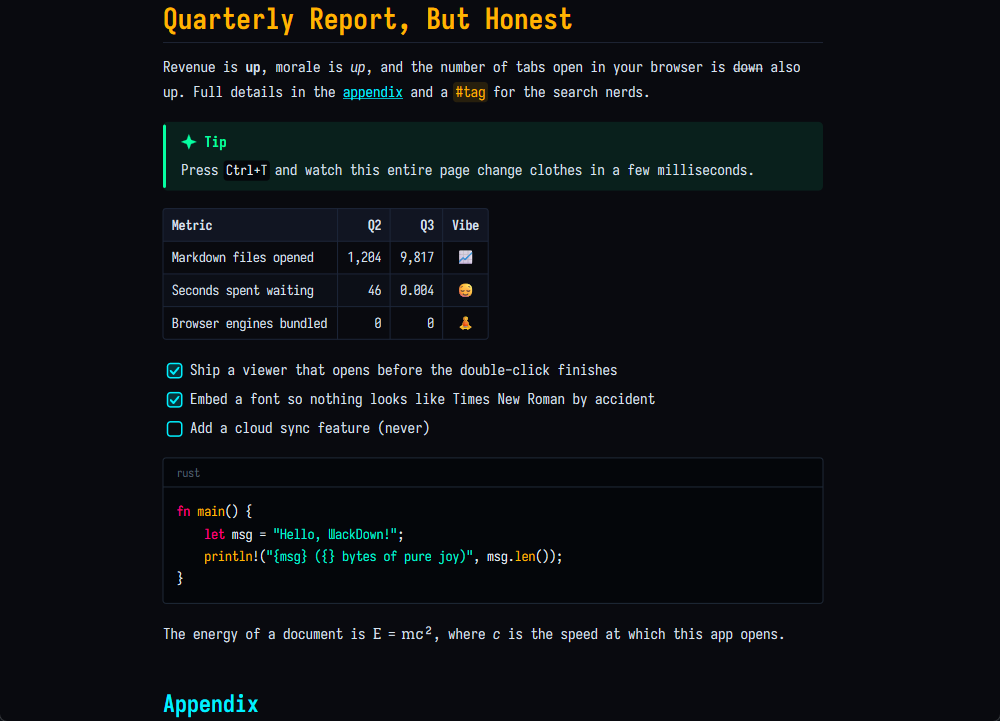
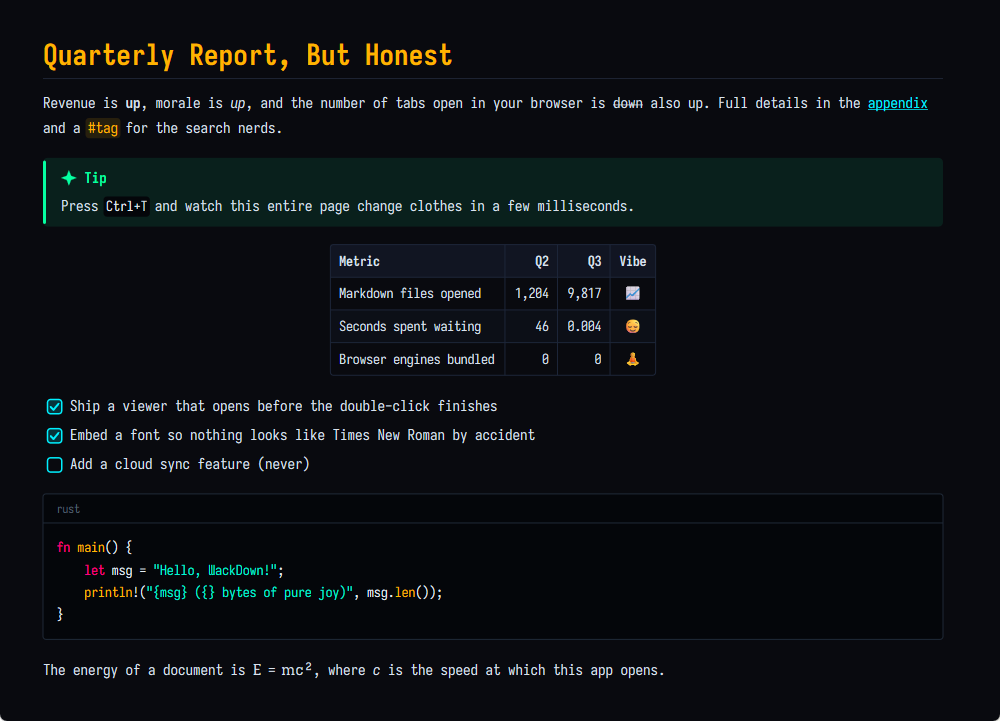
Zoom from 4% to 5000%, centered tables, wider text column
- Zoom range is now 0.04x-50x: zoom out to see a whole document as a strip,
  or in until one glyph fills the window. Steps grow past 2x / below 0.5x so
  the ends are reachable; page padding stops scaling at 2x; after an extreme
  zoom the view snaps onto text if it landed on empty space.
- A note greets you at either end of the range ("You have reached orbit." /
  "You have reached the letter."), with Ctrl+0 as the way back.
- Tables never exceed the text column and are centered within it.
- The default reading column is wider (measure 96-120 characters).
- Website: refreshed screenshots, zoom FAQ.

diff --git a/docs/index.html b/docs/index.html
@@ -244,7 +244,7 @@ footer p { margin: .4em 0; }
     <div class="keys">
       <div><span>Theme picker with live preview</span><span><kbd>Ctrl</kbd> <kbd>T</kbd></span></div>
       <div><span>Next / previous theme</span><span><kbd>T</kbd> / <kbd>Shift</kbd> <kbd>T</kbd></span></div>
-      <div><span>Zoom, centered on the cursor</span><span><kbd>Ctrl</kbd> + wheel</span></div>
+      <div><span>Zoom, 4% to 5000%, centered on the cursor</span><span><kbd>Ctrl</kbd> + wheel</span></div>
       <div><span>Reset zoom</span><span><kbd>Ctrl</kbd> <kbd>0</kbd></span></div>
       <div><span>Scroll a wide code block sideways</span><span><kbd>Shift</kbd> + wheel</span></div>
       <div><span>Page down / up</span><span><kbd>Space</kbd> / <kbd>Shift</kbd> <kbd>Space</kbd></span></div>
@@ -269,6 +269,7 @@ footer p { margin: .4em 0; }
     <details><summary>Why is the M upside down?</summary><p>Because it's Markdown, turned on its head. The letter is Ɯ, U+019C, "Latin capital letter turned M". It has been sitting in Unicode since 1993 waiting for a job. We gave it one.</p></details>
     <details><summary>Windows says it doesn't recognize this app.</summary><p>Correct, and Windows is being honest: the files aren't code-signed yet, because certificates cost either money or reputation and we're starting with neither. Click <em>More info → Run anyway</em>, or verify the SHA-256 checksum published with every release, like the responsible adult you are. Starring the repo helps us qualify for free signing. That's not a joke; it's literally how the program works.</p></details>
     <details><summary>Where does it keep my settings?</summary><p>One tiny JSON file in <code>%APPDATA%\WackDown</code> that remembers your theme, zoom and window size. Drop your own themes in a folder next to it. That's the whole configuration story.</p></details>
+    <details><summary>How far can I zoom?</summary><p>From 4%, where a document becomes a mood, to 5,000%, where a comma becomes a landscape. Most apps stop at 200% because nobody asked. We asked. There's something waiting for you at both ends.</p></details>
     <details><summary>Does it support images?</summary><p>It shows their alt text, which is more than most people write. Real image rendering is on the list. Mermaid diagrams are shown as code, which is technically rendering.</p></details>
     <details><summary>Who wrote this?</summary><p>An AI coding assistant (Claude Code), with a human holding the leash, reviewing the work and making the rude design decisions. The code is GPL-3.0, so you can read every line and judge for yourself.</p></details>
   </div>

diff --git a/src/window.rs b/src/window.rs
@@ -30,8 +30,9 @@ const TIMER_WATCH: usize = 2;
 const WM_MOUSEHWHEEL: u32 = 0x020E;
 /// Icon resource 1 in wackdown.rc (MAKEINTRESOURCE(1)).
 const APP_ICON: PCWSTR = PCWSTR(1 as *const u16);
-const MIN_ZOOM: f32 = 0.5;
-const MAX_ZOOM: f32 = 3.0;
+/// Zoom range: from "the whole document as a texture" to "a single letter as a landscape".
+const MIN_ZOOM: f32 = 0.04;
+const MAX_ZOOM: f32 = 50.0;
 /// Time per frame spent extending an incomplete layout.
 const LAYOUT_BUDGET: Duration = Duration::from_millis(6);
 /// Scrolling spring stiffness (rad/s).
@@ -91,6 +92,8 @@ struct App {
     zoom: Zoom,
     /// Block anchor to restore after a zoom relayout: (block, frac, view y).
     zoom_anchor: Option<((usize, f32), f32)>,
+    /// Fades in the message that greets anyone who reaches either end of the zoom range.
+    zoom_note: Fade,
     /// (anchor, focus), unordered.
     selection: Option<(TextPos, TextPos)>,
     selecting: bool,
@@ -205,6 +208,7 @@ pub fn run_window_loop(file: Option<PathBuf>, startup_timer: Instant) -> Result<
             scroll: Spring::new(0.0, SCROLL_OMEGA),
             zoom: Zoom { committed: saved_zoom, visual: saved_zoom, target: saved_zoom, anchor_y: 0.0, last_input: now },
             zoom_anchor: None,
+            zoom_note: Fade::default(),
             selection: None,
             selecting: false,
             press_link: None,
@@ -666,6 +670,15 @@ impl App {
             if let Some((anchor, view_y)) = self.zoom_anchor.take() {
                 let y = self.renderer.layout().map_or(0.0, |l| l.block_y(anchor)) - view_y;
                 self.scroll.set(y);
+                // Extreme zoom can land the view on empty space (padding, the gap between giant
+                // lines): make sure some text is on screen.
+                let max = self.max_scroll();
+                let s = self.scroll.value.clamp(0.0, max);
+                if let Some(top) = self.renderer.layout().and_then(|l| l.nearest_text_top(s)) {
+                    if top > s + vh * 0.8 || top + self.line_height() < s {
+                        self.scroll.set((top - vh * 0.1).clamp(0.0, max));
+                    }
+                }
             } else if let Some(anchor) = prior_anchor {
                 let y = self.renderer.layout().map_or(0.0, |l| l.block_y(anchor));
                 let delta = self.scroll.target - self.scroll.value;
@@ -738,6 +751,11 @@ impl App {
         self.code_fade.on = self.code_hover.is_some();
         self.code_fade.step(dt, 14.0);
 
+        // The note appears only once the zoom has settled at an end of the range.
+        let z = &self.zoom;
+        self.zoom_note.on = z.visual == z.target && z.committed == z.target && (z.target <= MIN_ZOOM || z.target >= MAX_ZOOM);
+        self.zoom_note.step(dt, 5.0);
+
         if self.flash.as_ref().is_some_and(|(_, t)| t.elapsed() > FLASH) {
             self.flash = None;
         }
@@ -757,6 +775,7 @@ impl App {
             || self.scrollbar_visible.moving()
             || self.scrollbar_visible.on
             || self.code_fade.moving()
+            || self.zoom_note.moving()
             || self.flash.is_some()
             || self.copied.is_some()
             || self.renderer.animating()
@@ -817,6 +836,7 @@ impl App {
             current_match: self.find.as_ref().filter(|f| !f.matches.is_empty()).map(|f| f.current),
             find: self.find.as_ref().map(|f| FindView { query: f.query.clone(), count: f.matches.len(), current: f.current }),
             status,
+            zoom_note: (self.zoom_note.value > 0.0).then_some((self.zoom.committed <= MIN_ZOOM, self.zoom_note.value)),
         };
         match self.renderer.render(&self.palette, &view) {
             Ok(true) => {
@@ -858,8 +878,16 @@ impl App {
     }
 
     /// Starts or retargets a zoom gesture centered on view y `anchor_y`.
+    /// One zoom step in or out. Steps grow at the extremes so reaching orbit doesn't take all day.
+    fn zoom_step(&mut self, notches: f32, anchor_y: f32) {
+        let z = self.zoom.target;
+        let factor: f32 = if !(0.5..=2.0).contains(&z) { 1.25 } else { 1.1 };
+        self.zoom_to(z * factor.powf(notches), anchor_y);
+    }
+
     fn zoom_to(&mut self, zoom: f32, anchor_y: f32) {
-        let z = (zoom * 100.0).round().clamp(MIN_ZOOM * 100.0, MAX_ZOOM * 100.0) / 100.0;
+        // Three decimals: fine enough for the small end, and keeps 1.0 exactly reachable.
+        let z = (zoom.clamp(MIN_ZOOM, MAX_ZOOM) * 1000.0).round() / 1000.0;
         if self.zoom.visual == self.zoom.committed {
             // New gesture: pin it to where it started.
             self.zoom.anchor_y = anchor_y;
@@ -1166,7 +1194,7 @@ impl App {
     /// Wheel input. `horizontal` for tilt wheels / two-finger sideways swipes.
     fn on_wheel(&mut self, delta: f32, horizontal: bool, ctrl: bool, shift: bool, x: f32, y: f32) {
         if ctrl && !horizontal {
-            self.zoom_to(self.zoom.target * 1.1f32.powf(delta), y);
+            self.zoom_step(delta, y);
             return;
         }
         // Sideways scrolling (or Shift+wheel) over a code block scrolls that block.
@@ -1249,8 +1277,8 @@ impl App {
                 self.selection = None;
                 self.invalidate();
             }
-            VK_OEM_PLUS | VK_ADD if ctrl => self.zoom_to(self.zoom.target * 1.1, vh / 2.0),
-            VK_OEM_MINUS | VK_SUBTRACT if ctrl => self.zoom_to(self.zoom.target / 1.1, vh / 2.0),
+            VK_OEM_PLUS | VK_ADD if ctrl => self.zoom_step(1.0, vh / 2.0),
+            VK_OEM_MINUS | VK_SUBTRACT if ctrl => self.zoom_step(-1.0, vh / 2.0),
             VK_0 | VK_NUMPAD0 if ctrl => self.zoom_to(1.0, vh / 2.0),
             VK_C if ctrl => self.copy_selection(),
             VK_A if ctrl => {

diff --git a/src/layout.rs b/src/layout.rs
@@ -284,6 +284,12 @@ impl Layout {
         self.items.partition_point(|it| it.y + it.h < y)
     }
 
+    /// Top of the nearest text at or below document y, or of the last text if y is past it.
+    pub fn nearest_text_top(&self, y: f32) -> Option<f32> {
+        let i = self.item_at_y(y).min(self.items.len().checked_sub(1)?);
+        Some(self.items[i].y)
+    }
+
     /// Whether a document point is over any text (for the I-beam cursor).
     pub fn over_text(&self, x: f32, y: f32) -> bool {
         let first = self.items.partition_point(|it| it.y + it.h < y);
@@ -410,9 +416,6 @@ pub(crate) struct LayoutBuilder {
     /// Breakout column for top-level code blocks and tables.
     wide_left: f32,
     wide_right: f32,
-    /// Wide tables may use the whole window width (minus padding), beyond `maxWidth`.
-    full_left: f32,
-    full_right: f32,
     table_body: IDWriteTextFormat,
     table_bold: IDWriteTextFormat,
     indent_step: f32,
@@ -514,8 +517,6 @@ impl LayoutBuilder {
             right: center + prose_w / 2.0,
             wide_left: center - wide_w / 2.0,
             wide_right: center + wide_w / 2.0,
-            full_left: pad_x,
-            full_right: pad_x + outer_w,
             table_body,
             table_bold,
             indent_step: fs * 1.8,
@@ -528,8 +529,9 @@ impl LayoutBuilder {
             headings,
             math,
             body_baseline,
-            padding_y: l.padding_y.max(0.0) * z,
-            y: l.padding_y.max(0.0) * z,
+            // Page padding scales with zoom only up to 2x: at 50x nobody wants 1,800 px of margin.
+            padding_y: l.padding_y.max(0.0) * z.min(2.0),
+            y: l.padding_y.max(0.0) * z.min(2.0),
             next: 0,
             laid_weight: 0.0,
             total_weight: doc.blocks.iter().map(weight).sum(),
@@ -717,7 +719,7 @@ impl LayoutBuilder {
                 let tx = x + icon + self.fs * 0.5;
                 self.inline(layout, brushes, &text, &self.body_bold.clone(), color, tx, (w - (tx - x)).max(self.fs), sep, DWRITE_TEXT_ALIGNMENT_LEADING)?
             }
-            BlockKind::Table { aligns, rows } => self.table(layout, brushes, aligns, rows, x, w, breakout, sep)?,
+            BlockKind::Table { aligns, rows } => self.table(layout, brushes, aligns, rows, x, w, sep)?,
         };
         self.y = top + h;
         layout.spans.push(Span { gtop, top, bottom: self.y });
@@ -1027,7 +1029,6 @@ impl LayoutBuilder {
         rows: &[Vec<InlineText>],
         x: f32,
         w: f32,
-        breakout: bool,
         sep: Sep,
     ) -> Result<f32> {
         let ncols = rows.iter().map(Vec::len).max().unwrap_or(0).max(aligns.len());
@@ -1038,13 +1039,11 @@ impl LayoutBuilder {
         let px = ts * 0.65;
         let py = ts * 0.4;
         let top = self.y;
-        let full = (self.full_left, self.full_right);
 
         // Per column: natural width (no wrapping) and min-content width (longest unbreakable
-        // word, so identifiers like `Api.Integrators` never split), measured against the widest
-        // area this table could get.
+        // word, so identifiers like `Api.Integrators` never split).
         let empty = InlineText::default();
-        let measure_w = if breakout { (full.1 - full.0).max(w) } else { w };
+        let measure_w = w;
         let mut natural = vec![ts; ncols];
         let mut min_content = vec![ts; ncols];
         for (ri, row) in rows.iter().enumerate() {
@@ -1057,13 +1056,11 @@ impl LayoutBuilder {
                 min_content[c] = min_content[c].max(min.ceil() + 1.0);
             }
         }
-        // Tables that fit stay left-aligned with the prose; wider ones widen around the center,
-        // up to the full window width.
-        let needed = natural.iter().sum::<f32>() + ncols as f32 * 2.0 * px;
-        let (x, w) = self.widen(x, w, needed, breakout, full);
+        // A table never exceeds the text column; narrower ones are centered in it.
         let avail = (w - ncols as f32 * 2.0 * px).max(ts * ncols as f32);
         let widths = column_widths(&natural, &min_content, avail);
         let table_w: f32 = widths.iter().map(|cw| cw + 2.0 * px).sum();
+        let x = x + ((w - table_w) / 2.0).max(0.0);
         let col_x: Vec<f32> = widths
             .iter()
             .scan(x, |acc, cw| {

diff --git a/src/renderer.rs b/src/renderer.rs
@@ -64,6 +64,8 @@ pub struct ViewState<'a> {
     pub find: Option<FindView>,
     /// Bottom-left status strip (the URL of a hovered link).
     pub status: Option<String>,
+    /// Message at an end of the zoom range: (zoomed all the way out?, alpha).
+    pub zoom_note: Option<(bool, f32)>,
 }
 
 /// The Ctrl+F bar.
@@ -277,6 +279,9 @@ impl Renderer {
             }
             if let Some(status) = &view.status {
                 draw_status(&target, &mut self.brushes, &self.dwrite, &ui, pal, status, vw, vh)?;
+            }
+            if let Some((far_out, alpha)) = view.zoom_note {
+                draw_zoom_note(&target, &mut self.brushes, &self.dwrite, &ui, pal, far_out, alpha, vw, vh)?;
             }
             self.last_draw_ms = started.elapsed().as_secs_f32() * 1000.0;
             let ended = dc.EndDraw(None, None);
@@ -720,6 +725,48 @@ fn draw_find(
         cl.SetParagraphAlignment(DWRITE_PARAGRAPH_ALIGNMENT_CENTER)?;
         cl.SetTextAlignment(DWRITE_TEXT_ALIGNMENT_TRAILING)?;
         dc.DrawTextLayout(pt(panel.right - 12.0 - counter_w, panel.top), &cl, &brush(ccolor)?, D2D1_DRAW_TEXT_OPTIONS_ENABLE_COLOR_FONT);
+    }
+    Ok(())
+}
+
+/// What you find at the ends of the zoom range. Drawn unscaled, centered near the bottom.
+#[allow(clippy::too_many_arguments)]
+fn draw_zoom_note(
+    dc: &ID2D1RenderTarget,
+    brushes: &mut HashMap<u32, ID2D1SolidColorBrush>,
+    dwrite: &IDWriteFactory,
+    ui: &UiFormats,
+    pal: &Palette,
+    far_out: bool,
+    alpha: f32,
+    vw: f32,
+    vh: f32,
+) -> Result<()> {
+    let (title, body) = if far_out {
+        ("You have reached orbit.", "This is your whole document. The words are still down there; they've just become a texture. Ctrl+0 brings you home.")
+    } else {
+        ("You have reached the letter.", "You are now closer to this glyph than its type designer ever was. It would like a moment alone. Ctrl+0 backs away politely.")
+    };
+    let mut brush = |c: Rgba| get_brush(brushes, dc, c);
+    let w = (vw - 80.0).clamp(200.0, 560.0);
+    unsafe {
+        let mk = |text: &str, format: &IDWriteTextFormat| -> Result<(IDWriteTextLayout, f32)> {
+            let wide: Vec<u16> = text.encode_utf16().collect();
+            let tl = dwrite.CreateTextLayout(&wide, format, w - 40.0, 200.0)?;
+            tl.SetTextAlignment(DWRITE_TEXT_ALIGNMENT_CENTER)?;
+            let mut m = DWRITE_TEXT_METRICS::default();
+            let _ = tl.GetMetrics(&mut m);
+            Ok((tl, m.height))
+        };
+        let (t, th) = mk(title, &ui.bold)?;
+        let (b, bh) = mk(body, &ui.small)?;
+        let h = th + bh + 28.0;
+        let panel = D2D_RECT_F { left: (vw - w) / 2.0, top: vh - h - 48.0, right: (vw + w) / 2.0, bottom: vh - 48.0 };
+        dc.FillRoundedRectangle(&rounded(panel, 10.0), &brush(Rgba { a: 0.94 * alpha, ..pal.code_background })?);
+        dc.DrawRoundedRectangle(&rounded(panel, 10.0), &brush(pal.accent.with_alpha(0.7 * alpha))?, 1.0, None);
+        let opts = D2D1_DRAW_TEXT_OPTIONS_ENABLE_COLOR_FONT;
+        dc.DrawTextLayout(pt(panel.left + 20.0, panel.top + 14.0), &t, &brush(pal.accent.with_alpha(alpha))?, opts);
+        dc.DrawTextLayout(pt(panel.left + 20.0, panel.top + 14.0 + th + 4.0), &b, &brush(pal.text.with_alpha(0.85 * alpha))?, opts);
     }
     Ok(())
 }

diff --git a/src/resilience_tests.rs b/src/resilience_tests.rs
@@ -316,6 +316,7 @@ impl Harness {
                 current_match: (!matches.is_empty()).then_some(i % matches.len().max(1)),
                 find: Some(FindView { query: if i == 0 { String::new() } else { "e".into() }, count: matches.len(), current: 0 }),
                 status: Some(format!("https://example.com/{}", "very-long-path/".repeat(i * 20))),
+                zoom_note: (i > 0).then_some((i == 1, 0.5 * i as f32)),
                 scrollbar: ScrollbarView { width: 4.0 + 4.0 * i as f32, alpha: 1.0, track: (i == 1) as u8 as f32 },
                 zoom: (i == 1).then_some((1.35, vw / 2.0, vh / 3.0)),
                 flash,
@@ -362,7 +363,9 @@ fn spec_corpus_lays_out_and_renders_in_every_theme() {
         let doc = parse_markdown(&md);
         let zoom = match i % 9 {
             0 => 0.5,
+            1 => 0.04,
             4 => 3.0,
+            7 => 50.0,
             _ => 1.0,
         };
         guarded(&label, &md, || {

diff --git a/README.md b/README.md
@@ -101,7 +101,7 @@ Not supported: Mermaid diagrams render as code blocks.
 |:--|:--|
 | Scroll | Mouse wheel, `↑` `↓`, `PgUp` `PgDn`, `Space` / `Shift+Space`, scrollbar drag |
 | Top / bottom | `Home` / `End` |
-| Zoom (fluid, centered on the cursor) | `Ctrl` + wheel, `Ctrl +` / `Ctrl -`, reset with `Ctrl 0` |
+| Zoom (fluid, centered on the cursor; 4% to 5000%) | `Ctrl` + wheel, `Ctrl +` / `Ctrl -`, reset with `Ctrl 0` |
 | Scroll a wide code block sideways | `Shift` + wheel, tilt wheel or two-finger swipe over the block |
 | Copy a code block | Hover it and click **Copy** |
 | Theme picker (live preview) | `Ctrl+T`, then `↑` `↓` to preview, `Enter` to keep, `Esc` to revert |
@@ -124,11 +124,12 @@ Only `name`, `colors.background` and `colors.text` are required — every other 
 layout value falls back to something derived from those. A custom theme with the same `id` as a
 built-in one replaces it.
 
-`layout.measure` sets the reading width in characters of the body font (prose reads best at roughly
-65–90); `layout.maxWidth` caps it and is how far code blocks may widen when their content needs the
-room. Wide tables may use the whole window width; `typography.tableScale` (default `0.9`) sets table
-text size relative to body text. Table columns are sized like a browser's automatic layout: each
-column keeps its longest word intact, short columns are never wrapped, and long prose cells wrap.
+`layout.measure` sets the reading width in characters of the body font (the built-in themes use
+96–120; lower it for a narrower, more bookish column); `layout.maxWidth` caps it and is how far code
+blocks may widen when their content needs the room. Tables stay within the text column and are
+centered in it; `typography.tableScale` (default `0.9`) sets table text size relative to body text.
+Table columns are sized like a browser's automatic layout: each column keeps its longest word
+intact, short columns are never wrapped, and long prose cells wrap.
 
 Typography has three font roles, each a CSS-style list where the first available family wins:
 `fontFamily` (body text), `headingFontFamily` (defaults to the body font) and `codeFontFamily` (defaults

diff --git a/src/help.md b/src/help.md
@@ -8,7 +8,7 @@ A native Direct2D Markdown viewer. Drop a `.md` file onto this window, press **C
 |:--|:--|
 | Scroll | Mouse wheel, `↑` `↓`, `PgUp` `PgDn`, `Space` / `Shift+Space` |
 | Top / bottom | `Home` / `End` |
-| Zoom | `Ctrl` + wheel, `Ctrl +` / `Ctrl -`, reset with `Ctrl 0` |
+| Zoom, from 4% to 5000% | `Ctrl` + wheel, `Ctrl +` / `Ctrl -`, reset with `Ctrl 0` |
 | Scroll a wide code block sideways | `Shift` + wheel, tilt wheel or two-finger swipe |
 | Copy a code block | Hover it and click **Copy** |
 | Theme picker (live preview) | `Ctrl+T`, then `↑` `↓`, `Enter` keep, `Esc` revert |
